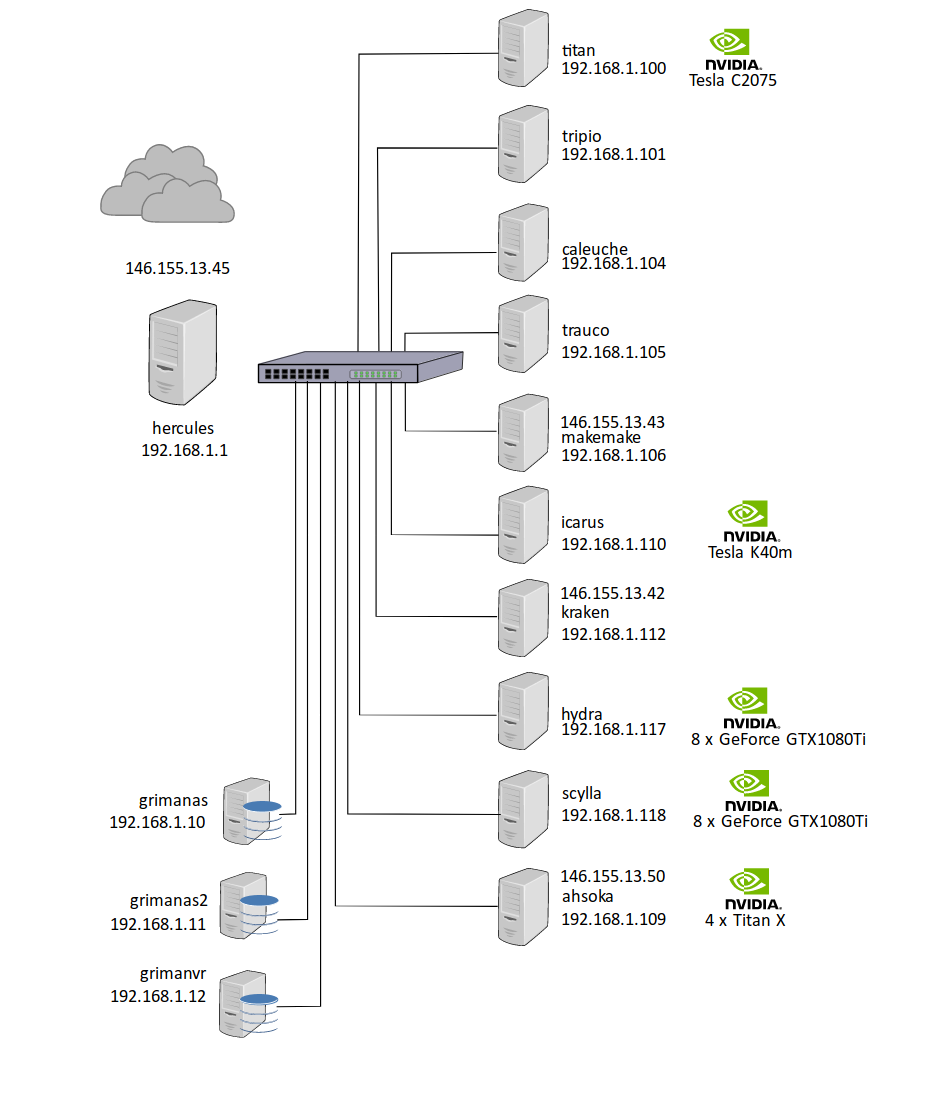
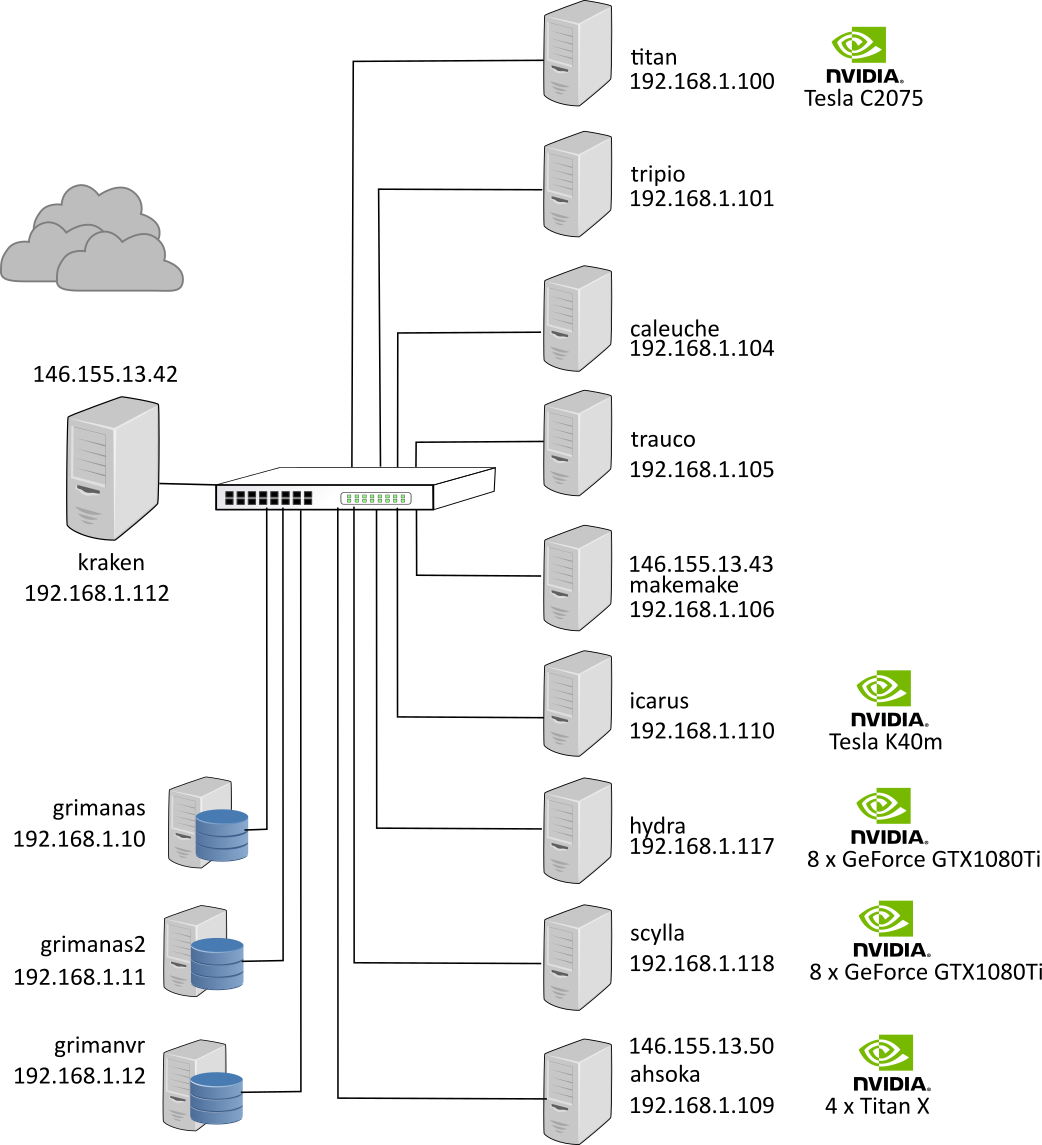
Small redaction corrections to main readme, and updated topology

Changed region(s): [[0.0, 0.0, 1.0, 1.0], [0.797, 0.9013, 0.889, 0.9945]]

diff --git a/README.md b/README.md
@@ -1,22 +1,24 @@
 # Cluster IALAB
 
 
-IALAB es un cluster ubicado en la Pontificia Universidad Católica de Chile el cual tiene 196 cores. Los nodos que cuentan con GPU integrada corresponden a Titan, Icarus, Hydra, Scylla y Ahsoka. 
+**IALAB-cluster** es el *cluster* del grupo [IALAB](https://ialab.ing.puc.cl), de la Pontificia Universidad Católica de Chile.
+El cluster cuenta con 248 cores divididos en 10 nodos y su uso principal es como plataforma de experimentación para las investigaciones
+realizadas por el grupo IALAB.
+
 
 
 ### Obteción de acceso
 
-Para tener acceso al cluster debes poseer una cuenta, si no tienes una debes completar el siguiente [formulario](https://docs.google.com/forms/d/e/1FAIpQLSfbmOJrBAHTIk2atyXRN_vPMGN94Bx7OMLBPAd23ew6xGzh0w/viewform) con tus datos.
+Para tener acceso al cluster debes poseer una cuenta. Si no tienes una debes completar el siguiente [formulario](https://docs.google.com/forms/d/e/1FAIpQLSfbmOJrBAHTIk2atyXRN_vPMGN94Bx7OMLBPAd23ew6xGzh0w/viewform) con tus datos.
 
 ### Ingresar al Cluster
 
-Una vez que tengas una cuenta en IALAB, deberías poder conectarte al cluster con el password que se te fue otorgado. Para acceder a los nodos del cluster deber hacer uso de ssh, para los usuarios de Linux y Mac esté viene ya implementado mientras que para usuarios de Windows recomendamos el uso de [PuTTY](https://www.chiark.greenend.org.uk/~sgtatham/putty/latest.html).
+Una vez que tengas una cuenta en IALAB podrás conectarte al cluster con el _password_ que se te fue otorgado. Para acceder a los nodos del _cluster_ debes hacer uso de `ssh`. Para los usuarios de Linux y Mac, el comando `ssh` ya viene ya instalados en la consola. Para usuarios de Windows recomendamos el uso de [PuTTY](https://www.chiark.greenend.org.uk/~sgtatham/putty/latest.html) o [MobaXterm](https://mobaxterm.mobatek.net/).
 
 Desde la terminal te puedes conectar usando el siguiente comando:
 
-
 ```
-ssh usuario@hercules.ing.puc.cl
+ssh usuario@kraken.ing.puc.cl
 ```
 
 
@@ -41,7 +43,7 @@ El Cluster utiliza el sistema de colas de Slurm (Simple Linux Universal Resource
 
 | Nodo     | Modelo                | GPU                   | Cores(fis) | Cores(vir) |
 | -------- | --------------------- | --------------------- | ---------- | ---------- |
-| Hercules | Dell PowerEdge SC1435 | N/A                   | 8          | 8          |
+| hercules | Dell PowerEdge SC1435 | N/A                   | 8          | 8          |
 | ahsoka   | Supermicro Thinkmate  | 4 x Titan X           | 20         | 40         |
 | caleuche | Supermicro 815-6      | N/A                   | 8          | 40         |
 | hydra    | Supermicro Thinkmate  | 8 x GeForce GTX1080Ti | 20         | 40         |
